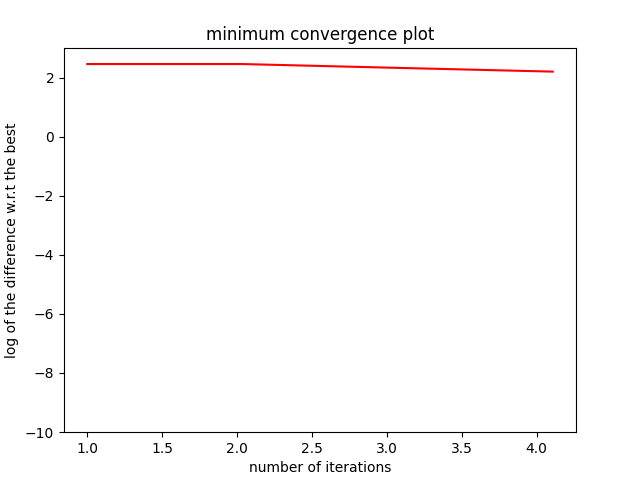
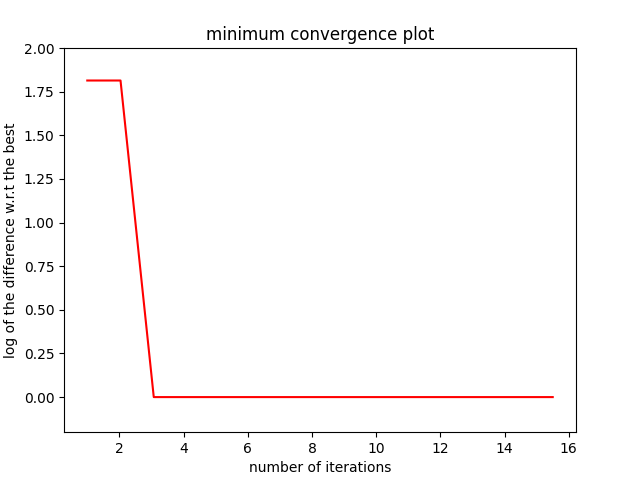
Improve example

diff --git a/smt/applications/tests/test_ego.py b/smt/applications/tests/test_ego.py
@@ -1031,7 +1031,7 @@ class TestEGO(SMTestCase):
             design_space=design_space, categorical_kernel=MixIntKernelType.GOWER, print_global=False
         )
         mixint = MixedIntegerContext(design_space)
-        n_doe = 3
+        n_doe = 15
         sampling = mixint.build_sampling_method(LHS, criterion="ese", random_state=42)
         xdoe = sampling(n_doe)
         ydoe = function_test_mixed_integer(xdoe)
